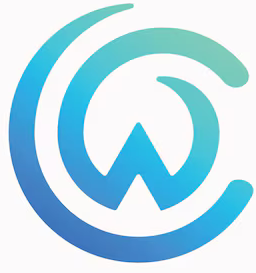
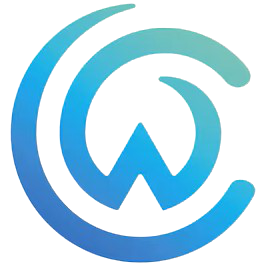
made navbar mobile responsive

diff --git a/src/components/Navbar.jsx b/src/components/Navbar.jsx
@@ -1,23 +1,51 @@
-import React from "react";
+import React, { useState } from "react";
 import { Link } from "react-router-dom";
+import { FaBars, FaTimes } from "react-icons/fa"; // Icons for menu toggle
+import cw from "../assets/cw.png";
 
 const Navbar = () => {
+  const [isOpen, setIsOpen] = useState(false);
+
   return (
-    <nav className="top-0 left-0 w-full bg-transparent py-4 z-10">
+    <nav className="top-0 left-0 w-full bg-transparent py-4">
       <div className="container mx-auto px-4 flex justify-between items-center">
-    
-        <button className="text-black font-semibold text-xl"><Link to={"/"}>CW</Link></button>
-        <div className="space-x-8 text-black">
+        {/* Logo */}
+        <button className="text-black font-semibold text-xl">
+          <Link to={"/"}>
+            <img src={cw} alt="CW" className="h-12 w-auto" />
+          </Link>
+        </button>
+
+        {/* Desktop Menu */}
+        <div className="hidden md:flex space-x-8 text-black">
           <ul className="list-none flex gap-10">
-              <li><Link to="/pricing" className="hover:text-blue-500 cursor-pointer">Pricing</Link></li>
-              <li><Link to="/documentation" className="hover:text-blue-500 cursor-pointer">Documentation</Link></li>
-              <li><Link to="/our-story" className="hover:text-blue-500 cursor-pointer">Our Story</Link></li>
-              <li><Link to="/contact" className="hover:text-blue-500 cursor-pointer">Contact</Link></li>
+            <li><Link to="/pricing" className="hover:text-blue-500 cursor-pointer">Pricing</Link></li>
+            <li><Link to="/documentation" className="hover:text-blue-500 cursor-pointer">Documentation</Link></li>
+            <li><Link to="/our-story" className="hover:text-blue-500 cursor-pointer">Our Story</Link></li>
+            <li><Link to="/contact" className="hover:text-blue-500 cursor-pointer">Contact</Link></li>
           </ul>
         </div>
+
+        {/* Mobile Menu Button */}
+        <button className="md:hidden text-2xl" onClick={() => setIsOpen(!isOpen)}>
+          {isOpen ? <FaTimes /> : <FaBars />}
+        </button>
       </div>
+
+      {/* Mobile Menu Dropdown */}
+      {isOpen && (
+        <div className="md:hidden absolute top-16 left-0 w-full bg-white shadow-md">
+          <ul className="flex flex-col items-center space-y-4 py-6">
+            <li><Link to="/pricing" className="hover:text-blue-500 cursor-pointer" onClick={() => setIsOpen(false)}>Pricing</Link></li>
+            <li><Link to="/documentation" className="hover:text-blue-500 cursor-pointer" onClick={() => setIsOpen(false)}>Documentation</Link></li>
+            <li><Link to="/our-story" className="hover:text-blue-500 cursor-pointer" onClick={() => setIsOpen(false)}>Our Story</Link></li>
+            <li><Link to="/contact" className="hover:text-blue-500 cursor-pointer" onClick={() => setIsOpen(false)}>Contact</Link></li>
+          </ul>
+        </div>
+      )}
     </nav>
   );
 };
 
 export default Navbar;
+
